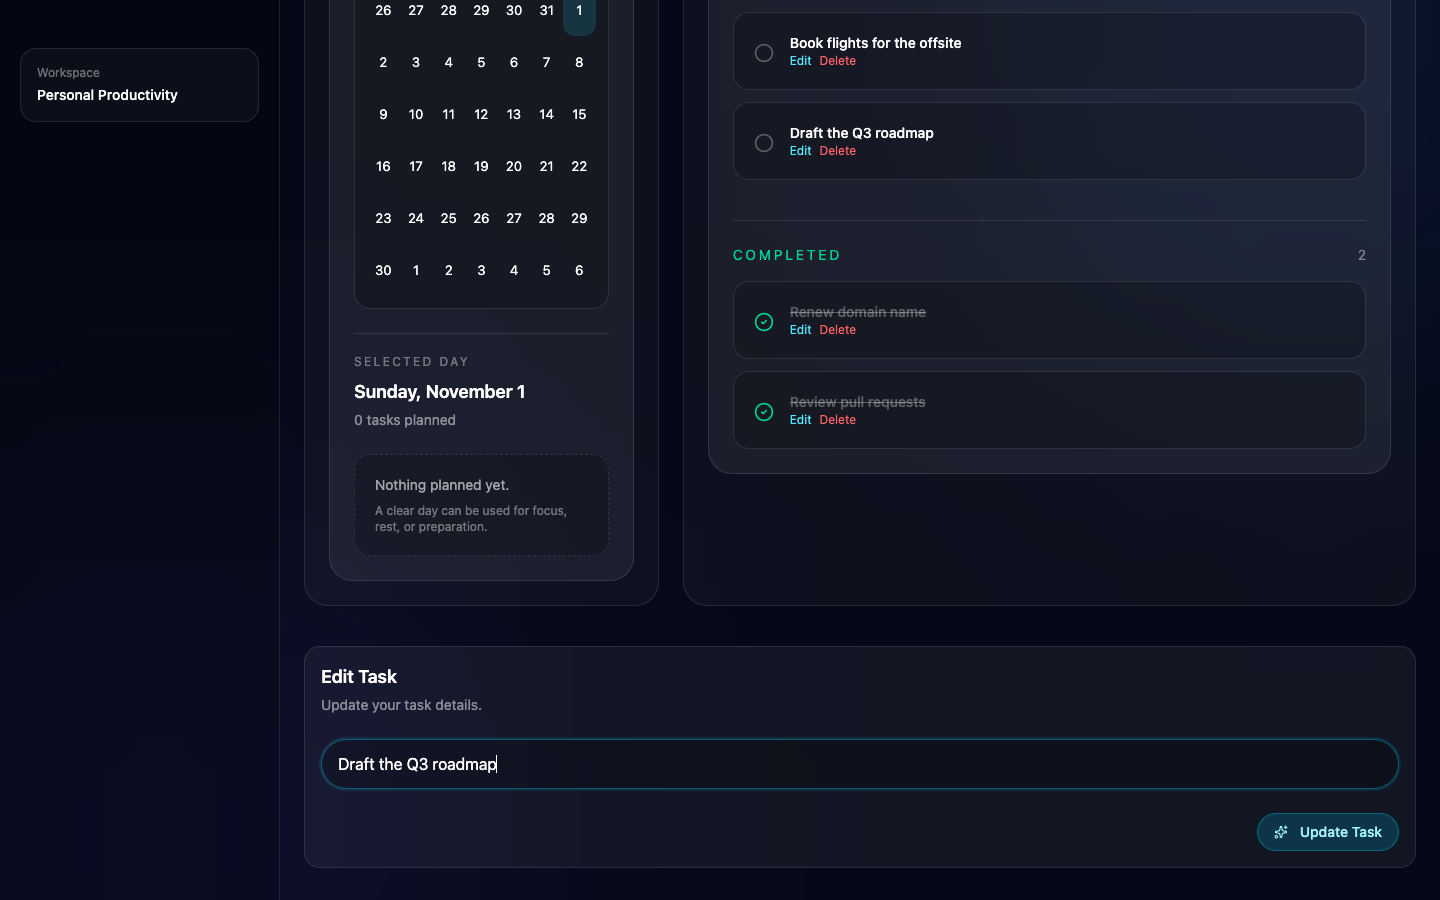
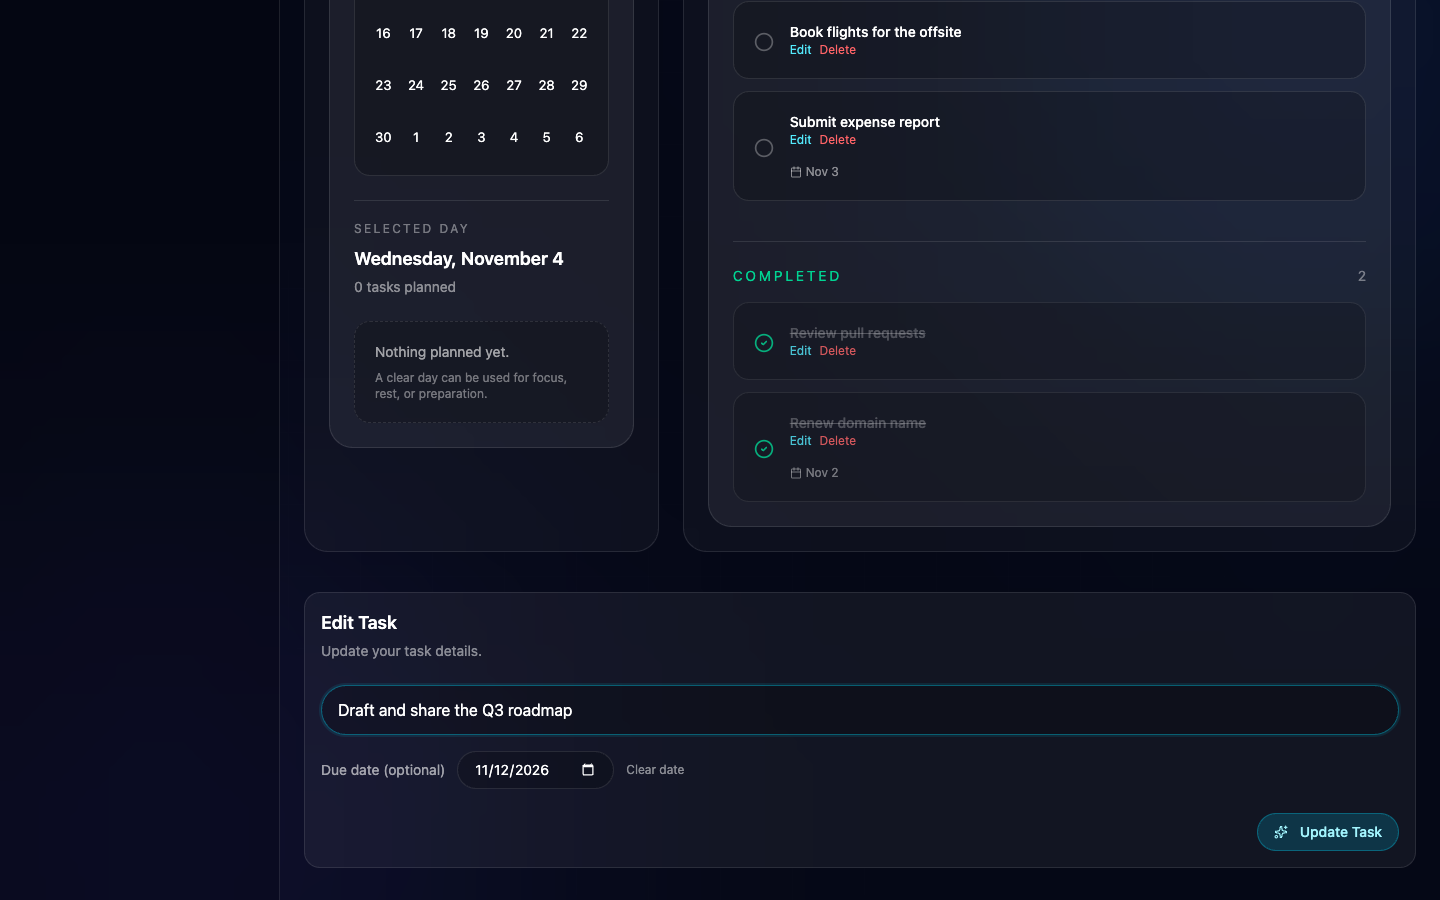
docs: README for due dates, mobile navigation, sign-in rules and CI; new screenshots
Screenshots retaken from the current app (including a phone view).

diff --git a/README.md b/README.md
@@ -22,7 +22,7 @@
   <img alt="Deployed on Vercel" src="https://img.shields.io/badge/Deployed%20on-Vercel-000000?logo=vercel&logoColor=white">
 </p>
 
-![TaskFlow Tasks page with total and completed counts, a Planning Horizon calendar, and the task list split into Active and Completed sections](screenshots/taskflow-tasks.png)
+![TaskFlow Tasks page with total and completed counts, a Planning Horizon calendar with due dates marked, and the task list split into Active and Completed sections with due dates on each task](screenshots/taskflow-tasks.png)
 
 ## Overview
 
@@ -41,11 +41,11 @@
 
 <table>
   <tr>
-    <td width="50%"><img src="screenshots/taskflow-edit-task.png" alt="TaskFlow Edit Task form, prefilled with the title Draft the Q3 roadmap, below the task list"></td>
+    <td width="50%"><img src="screenshots/taskflow-edit-task.png" alt="TaskFlow Edit Task form with the title Draft and share the Q3 roadmap, a due date of 11/12/2026 and a Clear date link"></td>
     <td width="50%"><img src="screenshots/taskflow-dashboard.png" alt="TaskFlow Dashboard with completed and active counts, progress, today's focus, upcoming tasks and workspace status"></td>
   </tr>
   <tr>
-    <td><em>Edit a task in place; the new title is saved straight to the database.</em></td>
+    <td><em>Edit a task's title and due date; changes save straight to the database.</em></td>
     <td><em>Dashboard: where your work stands, computed from your tasks.</em></td>
   </tr>
   <tr>
@@ -58,31 +58,38 @@
   </tr>
 </table>
 
+<p align="center">
+  <img src="screenshots/taskflow-mobile-tasks.png" alt="TaskFlow on a phone: the Tasks page with a full-width New Task button, task counts, and a bottom navigation bar with Dashboard, Tasks, Analytics and Settings" width="300"><br>
+  <em>On phones, a bottom navigation bar replaces the sidebar.</em>
+</p>
+
 ## Features
 
 | | |
 | --- | --- |
-| **Accounts** | Register and log in with a username and password. Passwords are hashed with bcrypt. |
+| **Accounts** | Register and log in with a username and password. New usernames are 3–30 characters and unique regardless of capitalisation; passwords need at least 8 characters and are hashed with bcrypt. |
 | **Persistent sessions** | A signed, HTTP-only session cookie keeps you signed in across refreshes until you log out. |
 | **Task management** | Create tasks, edit their titles, mark them complete or reopen them, and delete them. |
+| **Due dates** | Give a task an optional due date, change it or clear it. Dates always show on the right calendar day, whatever your time zone. |
 | **Private by default** | Every task belongs to one user; the API rejects reading or changing anyone else's. |
 | **Active and Completed views** | Open work and finished work are listed separately, newest first. |
-| **Dashboard** | Completed and active counts, progress percentage, overdue count and upcoming tasks. |
+| **Dashboard** | Completed and active counts, progress percentage, overdue tasks (due before today) and upcoming tasks. |
 | **Analytics** | Completion rate, totals and a reflection message based on your progress. |
-| **Calendar** | Shows tasks that have a due date on the day you select; tasks without a date are always listed. |
-| **Focus Mode** | Dims the sidebar to reduce distraction; the preference is saved in your browser. |
-| **Clear error feedback** | A failed save keeps your text, shows the reason, and leaves your list as it was. |
+| **Calendar** | Marks the days that have tasks due and lists the tasks due on the day you select. |
+| **Works on phones** | A bottom navigation bar replaces the sidebar on small screens. |
+| **Preferences** | Focus Mode dims the sidebar; Workflow insights shows a note about your workload on the Dashboard. Both are saved in your browser. |
+| **Clear error feedback** | A failed save keeps your text and shows the reason; a failed complete or delete shows a notice and leaves your list on screen. |
 
 ## Tech stack
 
 | Category | Technologies |
 | --- | --- |
 | **Frontend** | React 18, Vite 5, React Router 7, Tailwind CSS 4, Framer Motion, lucide-react, react-calendar |
-| **Backend** | Node.js, Express 4, cors (allow-listed origins only), dotenv |
+| **Backend** | Node.js 20+, Express 4, express-rate-limit, cors (allow-listed origins only), dotenv |
 | **Database** | PostgreSQL (Neon in production), node-postgres (`pg`) connection pool |
 | **Authentication & security** | bcrypt, cookie-session (signed, HTTP-only, `SameSite=Lax`, `Secure` in production), ownership checks, sanitised error logging |
 | **Deployment & infrastructure** | Vercel (static frontend and a serverless API function in one project), Neon serverless PostgreSQL |
-| **Development & testing** | nodemon, Vite dev proxy, Node.js test runner, pg-mem, Vitest, Testing Library, jsdom |
+| **Development & testing** | nodemon, Vite dev proxy, Node.js test runner, pg-mem, Vitest, Testing Library, jsdom, GitHub Actions CI |
 
 ## Architecture
 
@@ -141,8 +148,8 @@ All responses are JSON. Task routes need a signed-in session, and users can only
 | Method | Endpoint | Body | Success response |
 | --- | --- | --- | --- |
 | `GET` | `/api/tasks` | — | `200` `[task]`, newest first |
-| `POST` | `/api/tasks` | `{ title, due_date? }` | `201` `task` |
-| `PATCH` | `/api/tasks/:task_id` | `{ title?, is_complete?, due_date? }` | `200` updated `task` |
+| `POST` | `/api/tasks` | `{ title, due_date? }` (date as `YYYY-MM-DD`) | `201` `task` |
+| `PATCH` | `/api/tasks/:task_id` | `{ title?, is_complete?, due_date? }`; only the fields sent change, and `due_date: null` clears the date | `200` updated `task` |
 | `DELETE` | `/api/tasks/:task_id` | — | `200` deleted `task` |
 
 ```json
@@ -155,7 +162,7 @@ All responses are JSON. Task routes need a signed-in session, and users can only
 }
 ```
 
-**Errors** come back as `{ error }` or `{ message }`: `400` for invalid input (such as an empty title or an update with no fields), `401` when not signed in, `403` for another user's task, `404` for a task that doesn't exist, and `500` with a generic message for anything unexpected.
+**Errors** come back as `{ error }` or `{ message }`: `400` for invalid input (such as an empty or over-200-character title, an invalid date, or an update with no fields), `401` when not signed in, `403` for another user's task, `404` for a task that doesn't exist, `429` after too many login or registration attempts, and `500` with a generic message for anything unexpected.
 
 ## Getting started
 
@@ -239,8 +246,10 @@ cd server && npm test
 cd ../frontend && npm test
 ```
 
-- **Server** (`node --test`): API tests run the real Express app against an in-memory PostgreSQL (pg-mem) built from the production schema. They cover registration, login, session restore and logout; creating, editing, completing and deleting tasks; ownership and error responses; and a check that existing records are never modified. Unit tests cover the user model, session-secret validation and log sanitising.
-- **Frontend** (`vitest`): component and page tests for the task list and editor. They check that edits save and display the new title, that failed saves show an error, that completing a task reaches the API, and that buttons inside draggable task cards still receive clicks.
+- **Server** (`node --test`): API tests run the real Express app against an in-memory PostgreSQL (pg-mem) built from the production schema. They cover registration rules, login, session restore and logout; creating, editing, completing and deleting tasks; due dates; ownership and error responses; and a check that existing records are never modified. Unit tests cover the user model, the login rate limiter, session-secret validation and log sanitising.
+- **Frontend** (`vitest`): component and page tests for the task list, editor, Settings, sign-in page, mobile navigation and date handling. They check that edits and due dates save, that failed actions show an error without blanking the page, that buttons inside draggable task cards still receive clicks, and that dates land on the right day in any time zone.
+
+GitHub Actions runs both suites and the production build on every push to `main` and every pull request.
 
 Build the production frontend with `cd frontend && npm run build`.
 
@@ -252,18 +261,19 @@ Build the production frontend with `cd frontend && npm run build`.
 - **Ownership enforced twice.** Controllers check that a task belongs to the signed-in user, and the `UPDATE` and `DELETE` statements are also scoped by `user_id`.
 - **Instant updates that settle on the truth.** The UI applies changes at once, rolls back if the request fails, and on success shows the task exactly as the server saved it.
 - **Safe errors and logs.** Clients get generic messages for server errors; logs record an error category and code but never request bodies, passwords or database connection details.
+- **Dates as calendar days.** Due dates travel as plain `YYYY-MM-DD` text from the database to the browser, which reads them as local days. Converting them to timestamps on the way would shift a task due on the 20th to the 19th for anyone in the Americas.
+- **Guarding sign-in.** Login and registration share a rate limit (20 attempts per IP per 15 minutes, with a friendly `429`), and new accounts must meet username and password rules. On Vercel each function instance keeps its own count, so the limit slows guessing rather than enforcing a global cap.
 - **Non-destructive database setup.** `npm run db:setup` uses `CREATE TABLE IF NOT EXISTS`, so it is safe to run against a database that already holds data.
 
 ## Roadmap
 
 Not built yet:
 
-- [ ] A due-date picker (due dates are stored and shown, but can't be set from the interface)
-- [ ] Saving the order of tasks after drag-to-reorder
+- [ ] Saving the order of tasks after drag-to-reorder (needs a new database column)
 - [ ] Task notes and priorities (needs new database columns)
-- [ ] Working colour themes (the Settings theme picker is not wired up yet)
-- [ ] Password reset
-- [ ] Rate limiting on login and registration
+- [ ] Colour themes
+- [ ] Password reset and account settings
+- [ ] A shared rate-limit store, so the login limit holds across serverless instances
 
 ---
 
